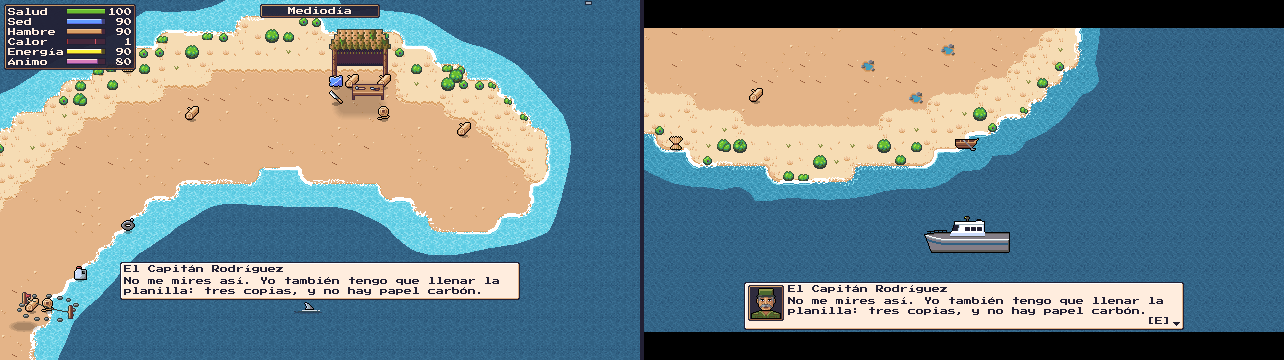
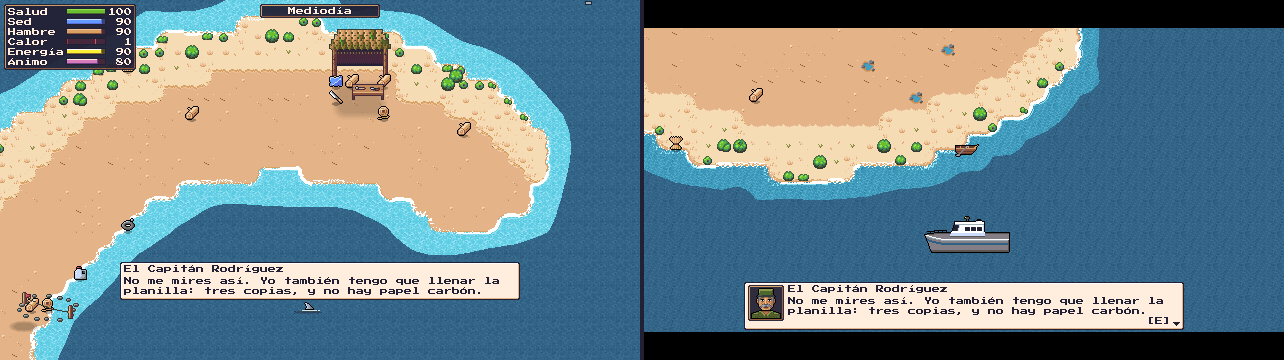
fix(art-guardacostas): hide every HUD piece under La captura's letterbox
Merging main brought hud-clarity's objective row, clock, Calor and
Sangrando rows and the site arrow, which the staging's name list did not
know. The staging now hides every HUD piece but a keep-list (the scene
panel, the stage, the run menu and the quick-chat wheel) and restores each
piece's own alpha; solo, host-plus-client and two-process checks cover it.

Changed region(s): [[0.4984, 0.0917, 0.8723, 0.5806]]

diff --git a/openspec/changes/art-guardacostas/design.md b/openspec/changes/art-guardacostas/design.md
@@ -335,6 +335,7 @@ None. The owner chose (a) for QG1–QG4 on 2026-11-23 (proposal.md).
     - The kit's arrow is cream; on the light note card it is tinted the card text's dark (#222034).
     - The stage puts the framed point 30 px above the view's centre (`CaptureStage.FRAME_LIFT_PX`), in the open space between the top bar and the panel; centred, the boat sat behind the panel.
     - `RunHud.set_staged` hides by transparency (`modulate.a`), so the panels' own per-frame refreshes and their input stay as they are.
+    - After main brought hud-clarity (#120: the objective row, the clock, the Calor and Sangrando rows, the site arrow), the staging hides every piece of the HUD but a keep-list (the scene panel, the stage, the run menu and the quick-chat wheel) instead of a list of names, and gives each piece back the alpha it had; a piece a later change adds hides too. Tested solo, host plus client, and in the two-process run (host and client 13 of 13).
     - A plea's portrait is the whole 32×32 `idle_down` frame (the figure, head to feet), its key ramp swapped to the slot's row.
     - The host keeps `CaptureScene.last_report` (peer → ids) for the record; the notice text is `hud_text.tres`'s `confiscated` line ("Te quitaron: %s" / "They took: %s").
     - `tools/art/portraits.py` imports `creatures.py`'s and `rim.py`'s helpers and changes no shared tool.
